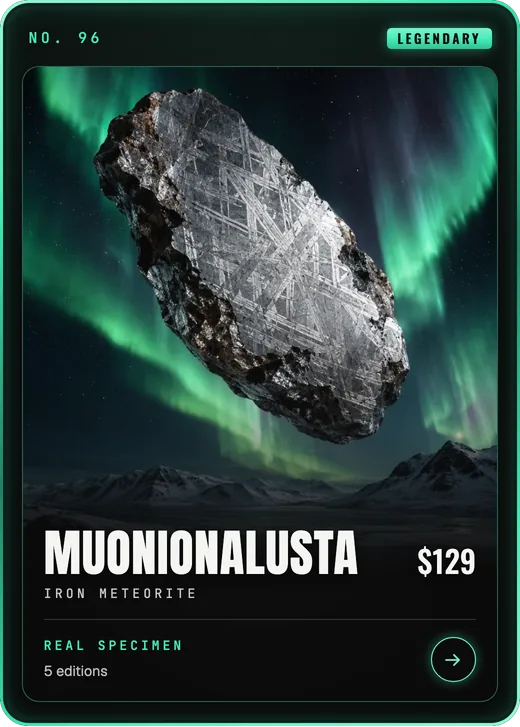
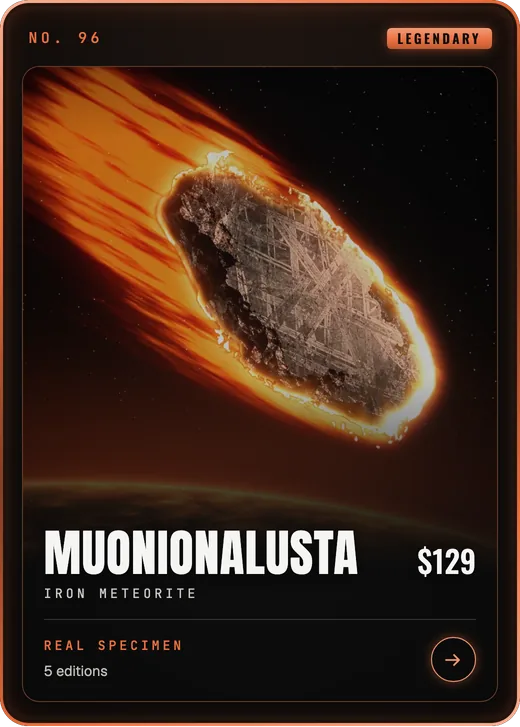
feat(stellar): every meteorite falls burning, the way Campo del Cielo does
The six other specimen cards lose their planets and suns: each rock is cut from its
own picture (U2-Net, then a flood fill that drops the dark sky and any aurora on the
rim) and re-staged red-hot through the upper atmosphere with a flame sheath, lava in
the crevices, embers and a glowing horizon (scripts/stellar-plates/meteor-fire). No
generation credits used. Card art URLs carry ?v=2 so browsers drop the 404s cached
while the art was missing; baked faces re-rendered as ?v=specimen2.

Claude-Session: https://claude.ai/code/session_013iPzn6Vf1NJUVGitGWHxnv

diff --git a/scripts/stellar-plates/meteor-fire/segment.js b/scripts/stellar-plates/meteor-fire/segment.js
@@ -1,0 +1,24 @@
+const ort = require('onnxruntime-node');
+const sharp = require('sharp');
+const G = '../gen/';
+const names = process.argv.slice(2);
+(async () => {
+  const sess = await ort.InferenceSession.create('u2net.onnx');
+  for (const n of names) {
+    const img = sharp(G + n + '.png');
+    const { width, height } = await img.metadata();
+    const { data } = await img.clone().resize(320, 320, { fit: 'fill' }).removeAlpha().raw().toBuffer({ resolveWithObject: true });
+    const mean = [0.485, 0.456, 0.406], std = [0.229, 0.224, 0.225];
+    let mx = 0; for (const v of data) if (v > mx) mx = v; const max = mx / 255 || 1;
+    const t = new Float32Array(3 * 320 * 320);
+    for (let i = 0; i < 320 * 320; i++) for (let c = 0; c < 3; c++) t[c * 320 * 320 + i] = (data[i * 3 + c] / 255 / max - mean[c]) / std[c];
+    const out = await sess.run({ [sess.inputNames[0]]: new ort.Tensor('float32', t, [1, 3, 320, 320]) });
+    const m = out[sess.outputNames[0]].data;
+    let lo = Infinity, hi = -Infinity;
+    for (const v of m) { if (v < lo) lo = v; if (v > hi) hi = v; }
+    const px = Buffer.alloc(320 * 320);
+    for (let i = 0; i < m.length; i++) px[i] = Math.round(((m[i] - lo) / (hi - lo)) * 255);
+    await sharp(px, { raw: { width: 320, height: 320, channels: 1 } }).resize(width, height, { kernel: 'lanczos3' }).png().toFile(`mask-${n}.png`);
+    console.log(n);
+  }
+})();

diff --git a/src/components/stellar/CardThumb.tsx b/src/components/stellar/CardThumb.tsx
@@ -16,7 +16,7 @@ export default function CardThumb({ designation, eager = false, price, sub }: Pr
   if (!plate) return <span className="sd-thumb sd-thumb--blank" aria-hidden="true">{designation}</span>;
   return (
     <div className="sd-thumb" role="img" aria-label={`${plate.name}, ${plate.rname}, Genesis ${plate.num} of ${plate.total}`}>
-      {price ? <CardFront plate={plate} priority={eager} price={price} sub={sub} u="" /> : <FadeImg src={`${plate.art}/card.webp?v=specimen1`} width={520} height={726} priority={eager} />}
+      {price ? <CardFront plate={plate} priority={eager} price={price} sub={sub} u="" /> : <FadeImg src={`${plate.art}/card.webp?v=specimen2`} width={520} height={726} priority={eager} />}
     </div>
   );
 }

diff --git a/scripts/stellar-plates/meteor-fire/fire.py b/scripts/stellar-plates/meteor-fire/fire.py
@@ -1,0 +1,190 @@
+"""Re-stages a meteorite in the Campo del Cielo look: the rock, cut from its own picture,
+falling red-hot through the upper atmosphere with a flame sheath streaming behind it.
+usage: python fire.py NAME angle_deg scale cx cy seed [flip]"""
+import sys, math
+import numpy as np
+from PIL import Image, ImageFilter
+
+G = '../gen/'
+name, ang, scale, cx, cy, seed = sys.argv[1], float(sys.argv[2]), float(sys.argv[3]), float(sys.argv[4]), float(sys.argv[5]), int(sys.argv[6])
+flip = len(sys.argv) > 7 and sys.argv[7] == 'flip'
+rng = np.random.default_rng(seed)
+W, H = 880, 1168
+
+def f32(img): return np.asarray(img, dtype=np.float32) / 255.0
+def img1(a): return Image.fromarray(np.clip(a * 255, 0, 255).astype(np.uint8), 'L')
+def blur(a, r): return f32(img1(a).filter(ImageFilter.GaussianBlur(r)))
+def blur3(a, r): return np.stack([blur(a[..., c], r) for c in range(3)], -1)
+
+def noise(w, h, cells_x, cells_y, octaves=5, stretch=1.0):
+    """Fractal value noise, made by upsampling random grids."""
+    out = np.zeros((h, w), np.float32); amp = 1.0; tot = 0
+    for o in range(octaves):
+        gx, gy = max(2, int(cells_x * 2 ** o)), max(2, int(cells_y * 2 ** o / stretch))
+        g = rng.random((gy, gx)).astype(np.float32)
+        out += amp * f32(img1(g).resize((w, h), Image.BICUBIC)); tot += amp; amp *= 0.55
+    return out / tot
+
+def streaks(cx_, cy_, octaves, deg):
+    """Noise drawn on a sheet larger than the card, turned, then cut to the card, so no corner is bare."""
+    S = int(1.5 * max(W, H))
+    n_ = noise(S, S, cx_ * S / W, cy_ * S / H, octaves)
+    t = img1(n_).rotate(deg, resample=Image.BICUBIC)
+    l, u = (S - W) // 2, (S - H) // 2
+    return f32(t.crop((l, u, l + W, u + H)))
+
+def shift(a, dx, dy):
+    out = np.zeros_like(a); h, w = a.shape[:2]
+    dx, dy = int(round(dx)), int(round(dy))
+    xs, xd = (slice(0, w - dx), slice(dx, w)) if dx >= 0 else (slice(-dx, w), slice(0, w + dx))
+    ys, yd = (slice(0, h - dy), slice(dy, h)) if dy >= 0 else (slice(-dy, h), slice(0, h + dy))
+    out[yd, xd] = a[ys, xs]; return out
+
+def fire(t):
+    """Black body ramp: transparent dark, ember red, orange, yellow, white."""
+    stops = [(0.0, (0, 0, 0)), (0.18, (0.35, 0.02, 0.0)), (0.38, (0.85, 0.16, 0.02)), (0.6, (1.0, 0.45, 0.06)), (0.8, (1.0, 0.76, 0.3)), (1.0, (1.0, 0.97, 0.86))]
+    t = np.clip(t, 0, 1); out = np.zeros(t.shape + (3,), np.float32)
+    for (a, ca), (b, cb) in zip(stops, stops[1:]):
+        m = (t >= a) & (t <= b); k = ((t - a) / (b - a))[m][:, None]
+        out[m] = np.array(ca) * (1 - k) + np.array(cb) * k
+    return out
+
+# Travel heads down-right at `ang` below the horizontal; the flames stream the other way.
+th = math.radians(ang)
+dx, dy = (-math.cos(th) if flip else math.cos(th)), math.sin(th)
+yy, xx = np.mgrid[0:H, 0:W].astype(np.float32)
+
+# ── The sky: black above, the glowing limb of the planet low in the frame, cloud decks lit from within.
+sky = np.zeros((H, W, 3), np.float32)
+r0 = W * 3.2
+cxp, cyp = W * (0.1 if not flip else 0.9), H + r0 - H * 0.24
+d = np.sqrt((xx - cxp) ** 2 + (yy - cyp) ** 2) - r0          # <0 inside the planet
+air = np.exp(-np.maximum(d, 0) / 110.0) * (d > 0)
+sky += air[..., None] * np.array([0.55, 0.13, 0.03])
+sky += (np.exp(-np.abs(d) / 7.0))[..., None] * np.array([1.0, 0.62, 0.25]) * 0.9   # the thin bright limb
+depth = np.clip(-d / (H * 0.24), 0, 1)                      # 0 at the horizon, 1 at the foot
+cl = noise(W, H, 3, 16, 6)
+cl2 = noise(W, H, 8, 40, 4)
+cl3 = noise(W, H, 20, 70, 3)
+field = cl * 0.6 + cl2 * 0.35 + cl3 * 0.25
+puffs = np.clip((field - 0.5) * 3.2, 0, 1)
+relief = np.clip((field - shift(field, 0, 6)) * 9, 0, 1)            # tops facing the light above
+lit = np.exp(-depth * 2.2)                                 # lit from above by the fireball and the dawn
+deck = (d < 0) * (0.04 + puffs * (0.18 + 0.7 * lit) + relief * puffs * (0.3 + 0.9 * lit))
+sky += deck[..., None] * np.array([1.0, 0.38, 0.1])
+sky += ((d < 0) * np.exp(-depth * 6) * 0.5)[..., None] * np.array([1.0, 0.45, 0.12])
+# Stars in the black, away from the glow.
+stars = np.zeros((H, W), np.float32)
+n = 900
+sx, sy = rng.integers(0, W, n), rng.integers(0, H, n)
+stars[sy, sx] = rng.random(n) ** 3
+stars = blur(stars, 0.7) * 3 * np.clip(1 - air * 2.2, 0, 1)
+sky += stars[..., None] * np.array([0.9, 0.92, 1.0])
+
+# ── The rock, from its own picture.
+src = Image.open(G + name + '.png').convert('RGB')
+mask = Image.open(f'mask2-{name}.png').convert('L')
+if flip:
+    src, mask = src.transpose(Image.FLIP_LEFT_RIGHT), mask.transpose(Image.FLIP_LEFT_RIGHT)
+bbox = mask.point(lambda v: 255 if v > 90 else 0).getbbox()
+src, mask = src.crop(bbox), mask.crop(bbox)
+target = W * scale
+k = target / max(src.size)
+src = src.resize((int(src.width * k), int(src.height * k)), Image.LANCZOS)
+mask = mask.resize(src.size, Image.LANCZOS)
+rock = np.zeros((H, W, 3), np.float32); m = np.zeros((H, W), np.float32)
+ox, oy = int(W * cx - src.width / 2), int(H * cy - src.height / 2)
+def paste(dst, a):
+    h, w = a.shape[:2]
+    x0, y0 = max(0, ox), max(0, oy); x1, y1 = min(W, ox + w), min(H, oy + h)
+    dst[y0:y1, x0:x1] = a[y0 - oy:y1 - oy, x0 - ox:x1 - ox]
+paste(rock, f32(src)); paste(m, f32(mask))
+m = np.clip((m - 0.5) / 0.3, 0, 1)
+# The net's mask runs a little wide; near the edge keep only what is lit rock, not the black behind it.
+core = np.clip((blur(m, 10) - 0.82) / 0.12, 0, 1)
+lum = rock.max(-1)
+lit = np.clip((lum - 0.05) / 0.10, 0, 1)
+m = np.maximum(core * m, m * lit)
+m = blur(np.clip((m - 0.35) / 0.4, 0, 1), 1.0)
+# Sky colour caught at the rim (an aurora, a blue star's glow): not rock.
+outer = 1 - np.clip((blur(m, 30) - 0.75) / 0.2, 0, 1)
+tint = (rock[..., 1] - rock[..., 0]) + 0.6 * (rock[..., 2] - rock[..., 0])
+m = m * (1 - np.clip(tint * 12, 0, 1) * outer)
+m = blur(np.clip((m - 0.3) / 0.4, 0, 1), 1.0)
+
+# The face meeting the air: where the rock ends just ahead of itself.
+ahead = np.clip(m - shift(m, -dx * 26, -dy * 26), 0, 1)
+lead = blur(ahead, 10)
+rim = np.clip(m - blur(m, 7), 0, 1) * 3.0                   # a thin hot edge all round
+heat = np.clip((lead * 1.6 + rim * 0.55) * (0.45 + noise(W, H, 24, 24, 3) * 1.1), 0, 1)
+
+# ── The flame sheath: the outline smeared back along the path, torn by turbulence.
+trail = np.zeros((H, W), np.float32)
+outline = np.clip(blur(m, 4) - m * 0.6, 0, 1) + blur(ahead, 8) * 0.6
+mc = (W * cx, H * cy)
+oimg = img1(np.clip(outline, 0, 1))
+for i in range(1, 64):
+    s_ = i * 10.0
+    z = 1 + i * 0.013                                       # the sheath fans out behind the rock
+    zi = oimg.resize((int(W * z), int(H * z)), Image.BILINEAR)
+    zx, zy = int(mc[0] * z - mc[0]), int(mc[1] * z - mc[1])
+    zi = f32(zi.crop((zx, zy, zx + W, zy + H)))
+    trail += shift(zi, -dx * s_, -dy * s_) * math.exp(-i / 11.0)
+    if i % 8 == 0: trail = blur(trail, 2 + i / 12)
+trail = blur(trail, 4)
+trail /= np.percentile(trail[trail > 0.01], 99) + 1e-6
+tear = streaks(3, 40, 6, ang if flip else -ang)                 # streaks running with the motion
+tear2 = streaks(6, 90, 4, ang if flip else -ang)
+tongues = np.clip((tear * 0.8 + tear2 * 0.5) - 0.52, 0, 1) * 3.0 * (0.6 + streaks(2, 6, 3, 0) * 0.8)
+soft = blur(trail, 26)
+flame = np.clip(trail * (0.1 + tongues) * 0.8 + soft * 0.42, 0, 1.0) ** 1.15
+flame *= (1 - m * 0.98)
+halo = (blur(m, 18) * (1 - m)) * 0.9 + blur(ahead, 26) * 1.6  # the shock glow wrapped round the nose
+# ── Embers peeling off into the wake.
+emb = np.zeros((H, W), np.float32)
+for _ in range(260):
+    t = rng.random() ** 1.6
+    ex = W * cx - dx * t * W * 0.95 + rng.normal(0, 40 + t * 120)
+    ey = H * cy - dy * t * W * 0.95 + rng.normal(0, 40 + t * 120)
+    if 0 <= ex < W - 1 and 0 <= ey < H - 1:
+        emb[int(ey), int(ex)] = rng.random() * (1 - t) + 0.2
+streak = np.zeros_like(emb)
+for i in range(8): streak += shift(emb, -dx * i * 2, -dy * i * 2) * (1 - i / 8)
+emb = blur(streak, 0.9) * 2.4
+
+band_pre = np.clip(m - np.clip((blur(m, 14) - 0.55) / 0.3, 0, 1), 0, 1)
+
+# ── Light it all.
+glow = fire(np.clip(flame * 0.58 + halo * 0.5, 0, 1)) * np.clip(flame * 1.1 + halo * 0.8, 0, 1)[..., None]
+glow += fire(np.clip(emb, 0, 1) * 0.9 + 0.1) * np.clip(emb, 0, 1)[..., None]
+base = 1 - (1 - sky) * (1 - np.clip(glow, 0, 1))             # screen the fire over the sky
+
+# The rock: darkened by the glare behind it, its face burning.
+lum = rock.mean(-1, keepdims=True)
+edge_band = np.clip(m - np.clip((blur(m, 16) - 0.6) / 0.25, 0, 1), 0, 1)[..., None]
+rock = rock * (1 - edge_band) + lum * edge_band                  # no stray sky colour on the rim
+rock_lit = np.clip((rock * 0.85 + lum * 0.1) ** 1.35 * 1.15, 0, 1) * np.array([1.0, 0.72, 0.55])   # scorched, lit by fire not sunlight
+# Crevices on the hot side glow like lava.
+crev = np.clip((0.3 - lum[..., 0]) / 0.2, 0, 1) * np.clip(blur(lead, 40) * 3.5 + band_pre * 0.6, 0, 1)
+crev *= np.clip(noise(W, H, 40, 40, 3) * 1.6 - 0.3, 0, 1)
+rock_lit = rock_lit + fire(0.45 + crev * 0.5) * crev[..., None] * 1.3
+burn = fire(0.55 + heat * 0.45) * heat[..., None]
+rock_lit = rock_lit * (1 - heat[..., None] * 0.55) + burn * 1.25
+# Light from the sheath spills over the trailing half.
+spill = blur(flame, 30)[..., None] * np.array([1.0, 0.45, 0.12]) * 0.35
+rock_lit = rock_lit + spill
+out = base * (1 - m[..., None]) + np.clip(rock_lit, 0, 1) * m[..., None]
+# The edge itself burns: a band of fire laid over the rim, widest on the leading face, torn like the sheath.
+band = np.clip(m - np.clip((blur(m, 9) - 0.55) / 0.3, 0, 1), 0, 1)
+crack = np.clip(noise(W, H, 30, 30, 4) - 0.45, 0, 1) * 3
+edgefire = np.clip(band * (0.7 + crack) + lead * m * 0.9, 0, 1)
+out = 1 - (1 - out) * (1 - fire(0.35 + edgefire * 0.6) * edgefire[..., None])
+
+# Bloom from the hottest parts, then a slow vignette.
+hot = np.clip(out - 0.62, 0, 1)
+out = out + blur3(hot, 18) * 0.9 + blur3(hot, 60) * 0.5
+v = 1 - 0.35 * (((xx / W - 0.5) ** 2 + (yy / H - 0.5) ** 2) * 2.2)
+out = np.clip(out * v[..., None], 0, 1)
+out = 1 - np.exp(-out * 1.35)                              # soft shoulder on the highlights
+Image.fromarray((out * 255).astype(np.uint8)).save(f'fire-{name}.png')
+print(name)

diff --git a/scripts/stellar-plates/meteor-fire/refine.py b/scripts/stellar-plates/meteor-fire/refine.py
@@ -1,0 +1,27 @@
+"""Tightens a U2-Net mask: black sky reachable from outside the mask is background, rock is what is left."""
+import sys
+import numpy as np
+from PIL import Image, ImageFilter
+name, thr = sys.argv[1], float(sys.argv[2]) if len(sys.argv) > 2 else 0.07
+img = np.asarray(Image.open(f'../gen/{name}.png').convert('RGB')).astype(np.float32) / 255
+m = np.asarray(Image.open(f'mask-{name}.png').convert('L')).astype(np.float32) / 255
+lum = img.max(-1)
+dark = lum < thr
+if name == 'MUONIONALUSTA':
+    r_, g_, b_ = img[..., 0], img[..., 1], img[..., 2]
+    dark |= (g_ > r_ * 1.06) & (g_ > 0.04)               # the aurora behind it
+    dark |= (b_ > r_ * 1.05) & (lum > 0.55)             # and the snow
+bg = m < 0.5
+for _ in range(400):
+    g = bg.copy()
+    g[1:] |= bg[:-1]; g[:-1] |= bg[1:]; g[:, 1:] |= bg[:, :-1]; g[:, :-1] |= bg[:, 1:]
+    g &= dark | (m < 0.5)
+    if (g == bg).all(): break
+    bg = g
+rock = ~bg
+# Keep the biggest solid body: anything far inside the original mask stays rock, whatever its shade.
+core = np.asarray(Image.fromarray((m > 0.5).astype(np.uint8) * 255).filter(ImageFilter.MinFilter(41))) > 0
+rock |= core
+r = Image.fromarray(rock.astype(np.uint8) * 255).filter(ImageFilter.MedianFilter(5)).filter(ImageFilter.GaussianBlur(1.2))
+r.save(f'mask2-{name}.png')
+print(name, round(rock.mean(), 3), round((m > 0.5).mean(), 3))
